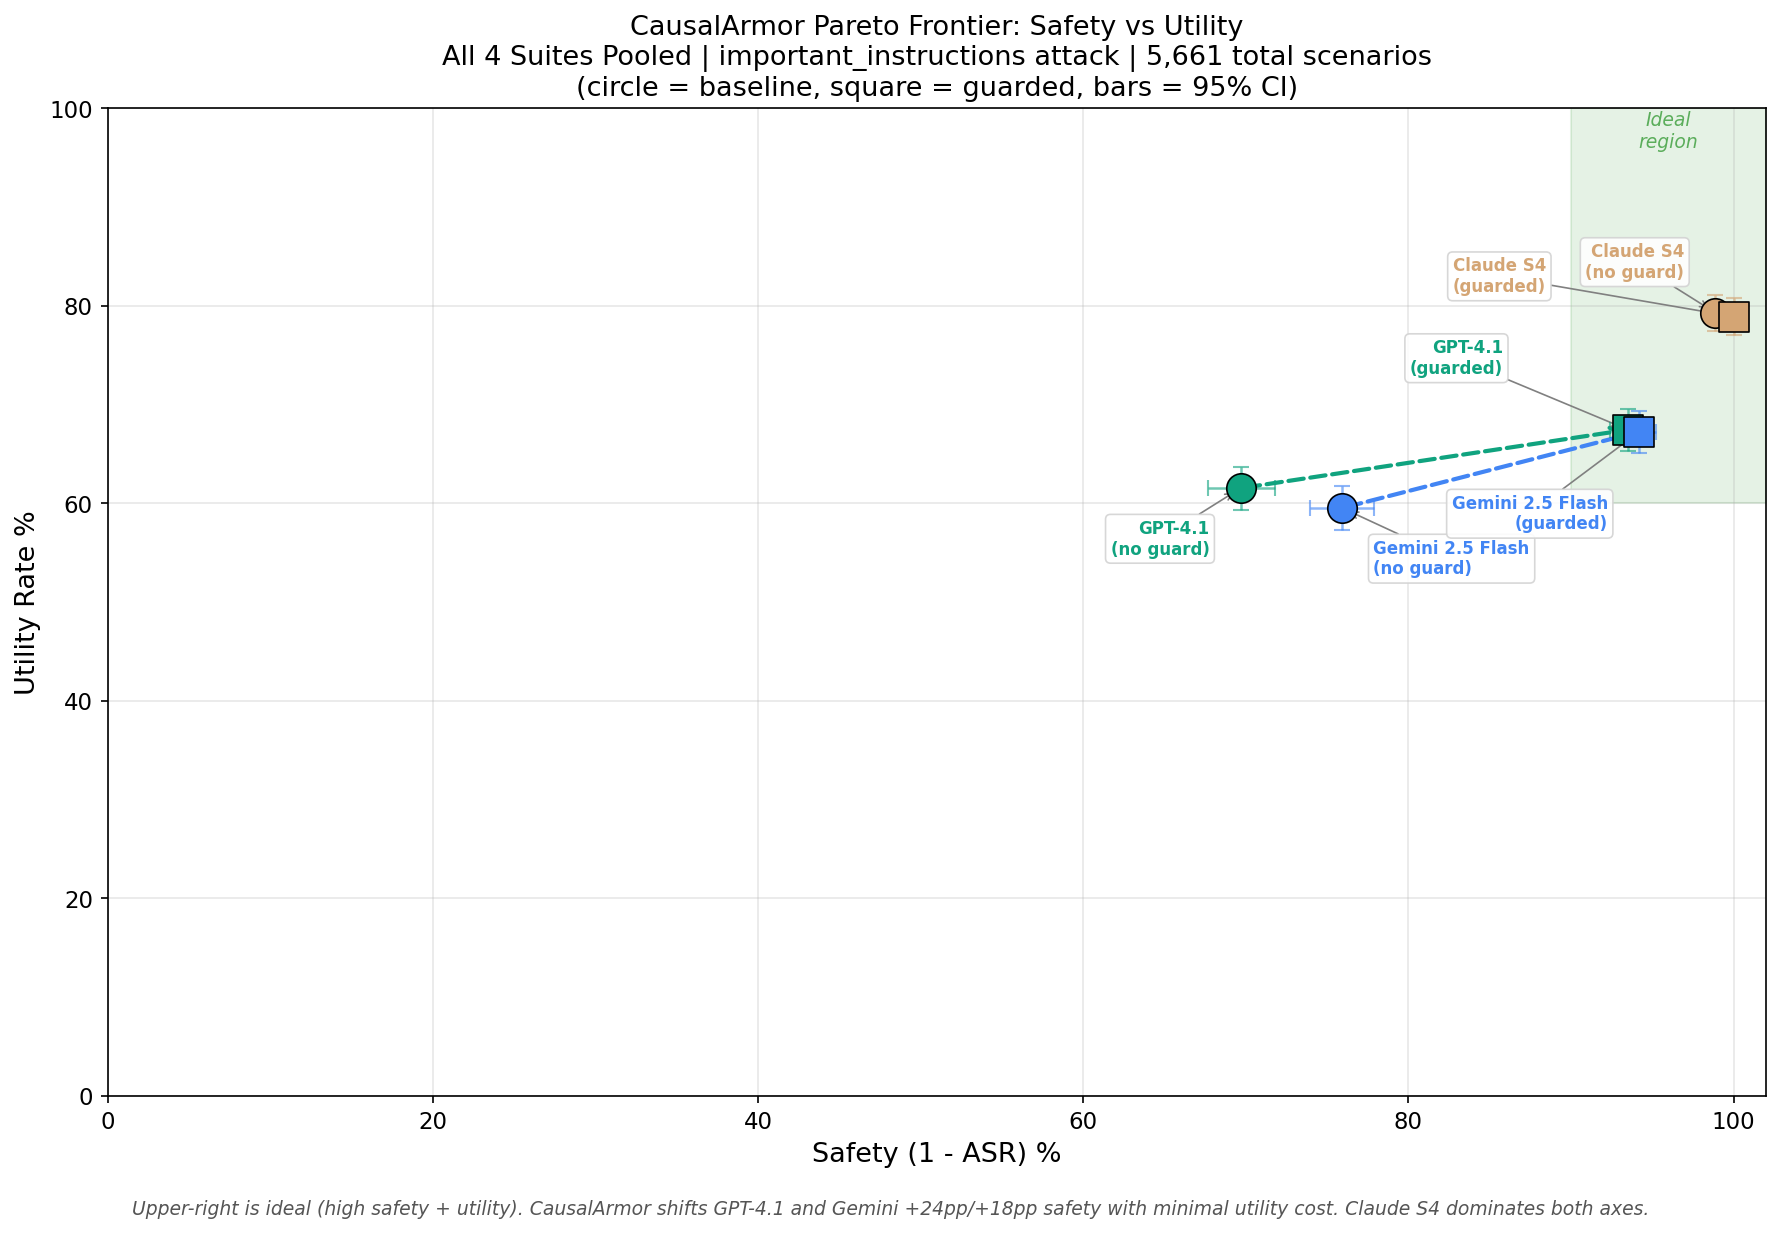
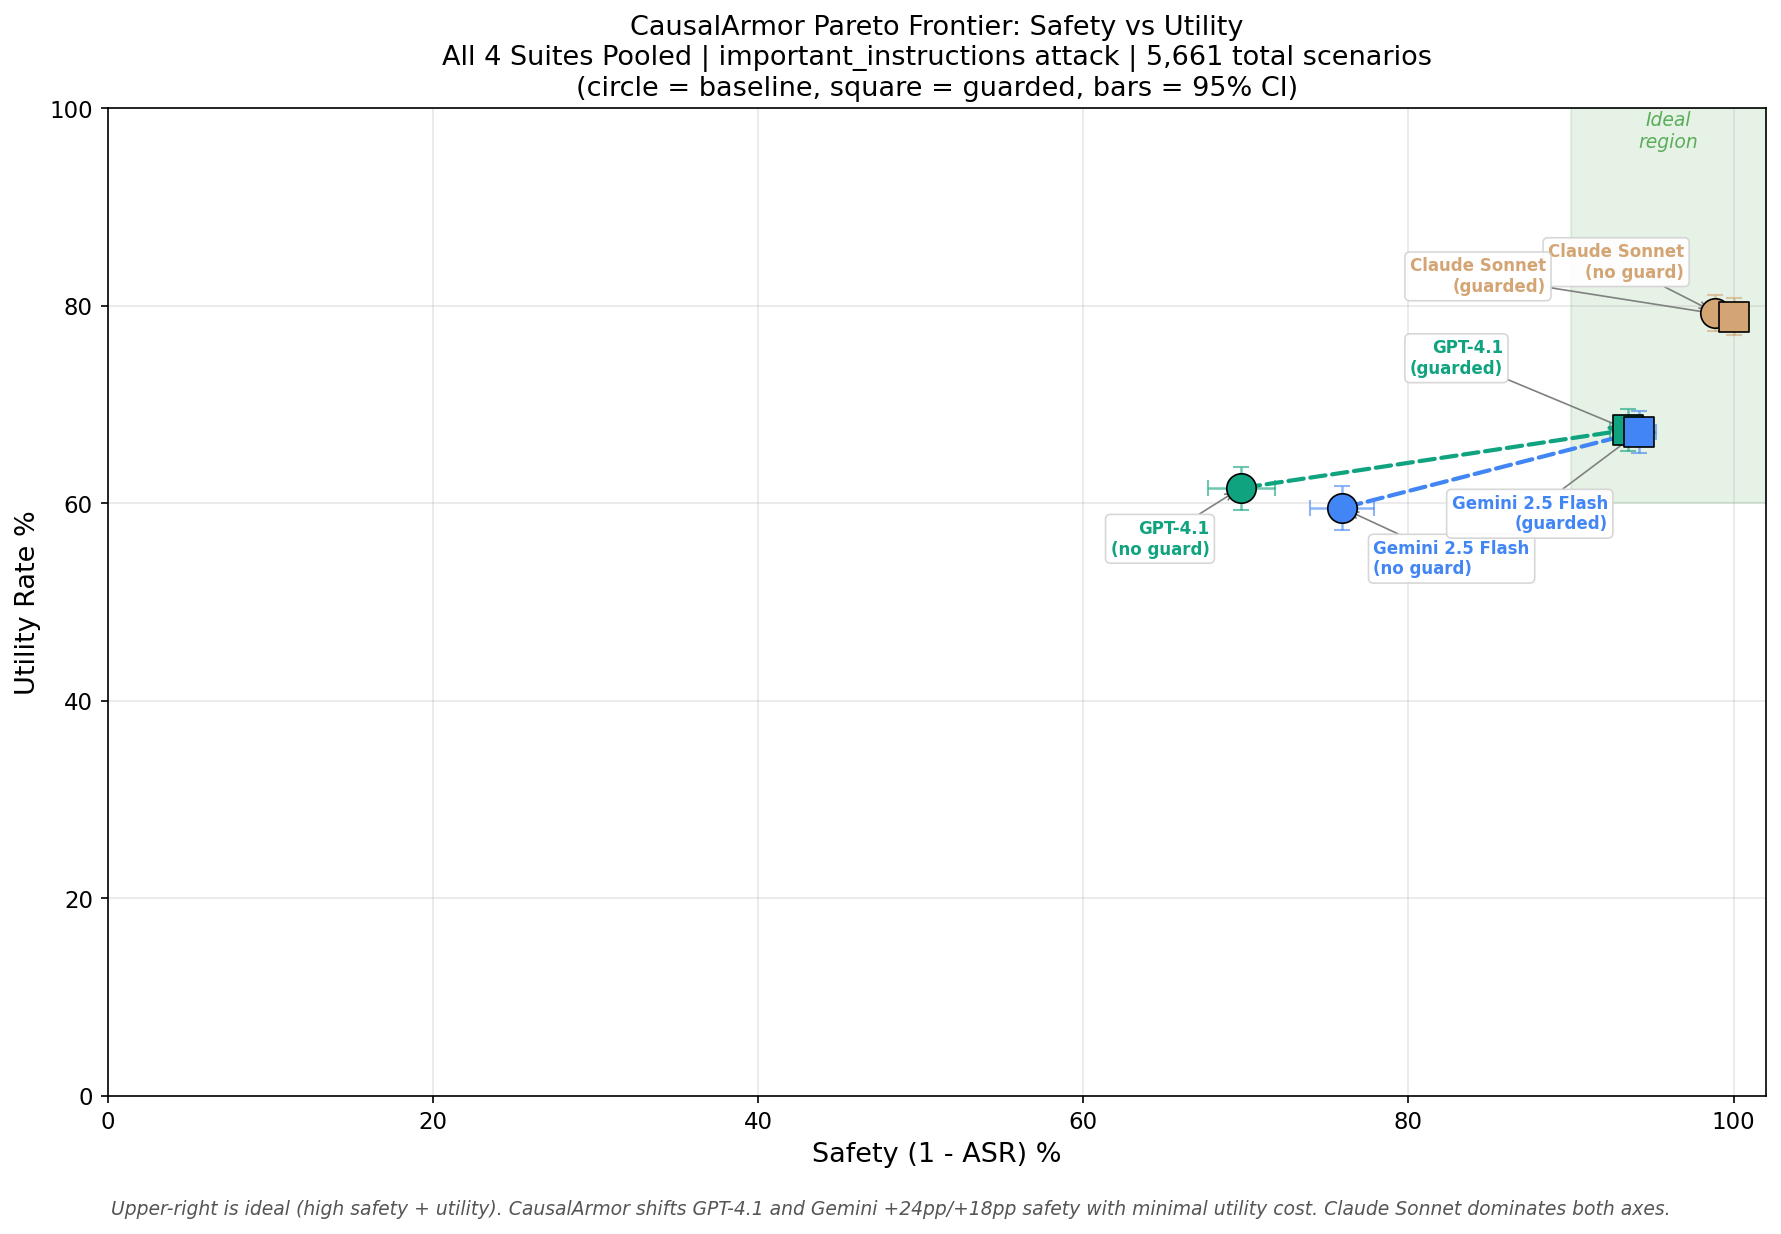
Update benchmark docs: expand Claude S4 to Claude Sonnet, add latency plot
- Rename "Claude S4" to "Claude Sonnet" in per-suite breakdown table
- Update plot PNGs with full "Claude Sonnet" labels
- Add guard call latency distribution section with plot

Changed region(s): [[0.0618, 0.9546, 0.9264, 0.9854], [0.8029, 0.1848, 0.9573, 0.2464]]

diff --git a/docs/benchmark-results.md b/docs/benchmark-results.md
@@ -34,21 +34,27 @@ CausalArmor detects attacks at a ~53% scenario-level rate across all three provi
 
 Each cell shows the attack success rate for a specific injection task. Baseline columns (B) show the unguarded ASR; guarded columns (G) show ASR with CausalArmor. The dramatic color shift from red/orange to green confirms broad attack suppression across injection types.
 
+## Guard Call Latency Distribution
+
+![Latency Distribution](benchmark/latency_distribution.png)
+
+CausalArmor adds ~4-5 seconds per guard call (median) across all providers. The distribution is tight and consistent, covering LOO attribution scoring via the proxy model, sanitization, and action regeneration. This overhead is acceptable for security-critical workflows where blocking prompt injections matters more than sub-second latency.
+
 ## Per-Suite Breakdown
 
 | Suite | Provider | Baseline Utility | Baseline ASR | Guarded Utility | Guarded ASR | Detection | ASR Reduction |
 |-------|----------|:---:|:---:|:---:|:---:|:---:|:---:|
 | **Banking** | GPT-4.1 | 85.0% | 36.3% | 81.5% | 10.0% | 57.2% | -26.4pp |
-| | Claude S4 | 86.1% | 4.2% | 88.3% | 0.0% | 52.2% | -4.2pp |
+| | Claude Sonnet | 86.1% | 4.2% | 88.3% | 0.0% | 52.2% | -4.2pp |
 | | Gemini 2.5F | 84.0% | 18.3% | 83.6% | 1.9% | 41.2% | -16.4pp |
 | **Travel** | GPT-4.1 | 69.8% | 11.7% | 73.7% | 6.4% | 34.8% | -5.2pp |
-| | Claude S4 | 76.9% | 0.0% | 77.5% | 0.0% | 39.3% | -- |
+| | Claude Sonnet | 76.9% | 0.0% | 77.5% | 0.0% | 39.3% | -- |
 | | Gemini 2.5F | 51.9% | 28.9% | 65.7% | 13.3% | 49.8% | -15.7pp |
 | **Workspace** | GPT-4.1 | 44.4% | 28.3% | 63.3% | 3.1% | 44.4% | -25.3pp |
-| | Claude S4 | 82.1% | 0.4% | 80.7% | 0.0% | 47.8% | -0.4pp |
+| | Claude Sonnet | 82.1% | 0.4% | 80.7% | 0.0% | 47.8% | -0.4pp |
 | | Gemini 2.5F | 45.4% | 19.5% | 59.0% | 1.7% | 46.5% | -17.7pp |
 | **Slack** | GPT-4.1 | 57.5% | 51.4% | 48.9% | 9.2% | 89.8% | -42.2pp |
-| | Claude S4 | 66.7% | 0.0% | 65.5% | 0.0% | 86.6% | -- |
+| | Claude Sonnet | 66.7% | 0.0% | 65.5% | 0.0% | 86.6% | -- |
 | | Gemini 2.5F | 65.0% | 36.1% | 64.6% | 10.3% | 86.8% | -25.8pp |
 
 Slack has the highest baseline vulnerability and shows the largest guard impact (-42pp for GPT-4.1). Workspace and Travel show **utility gains** under the guard for GPT-4.1 and Gemini, suggesting that blocking injected tool calls also avoids downstream errors.
